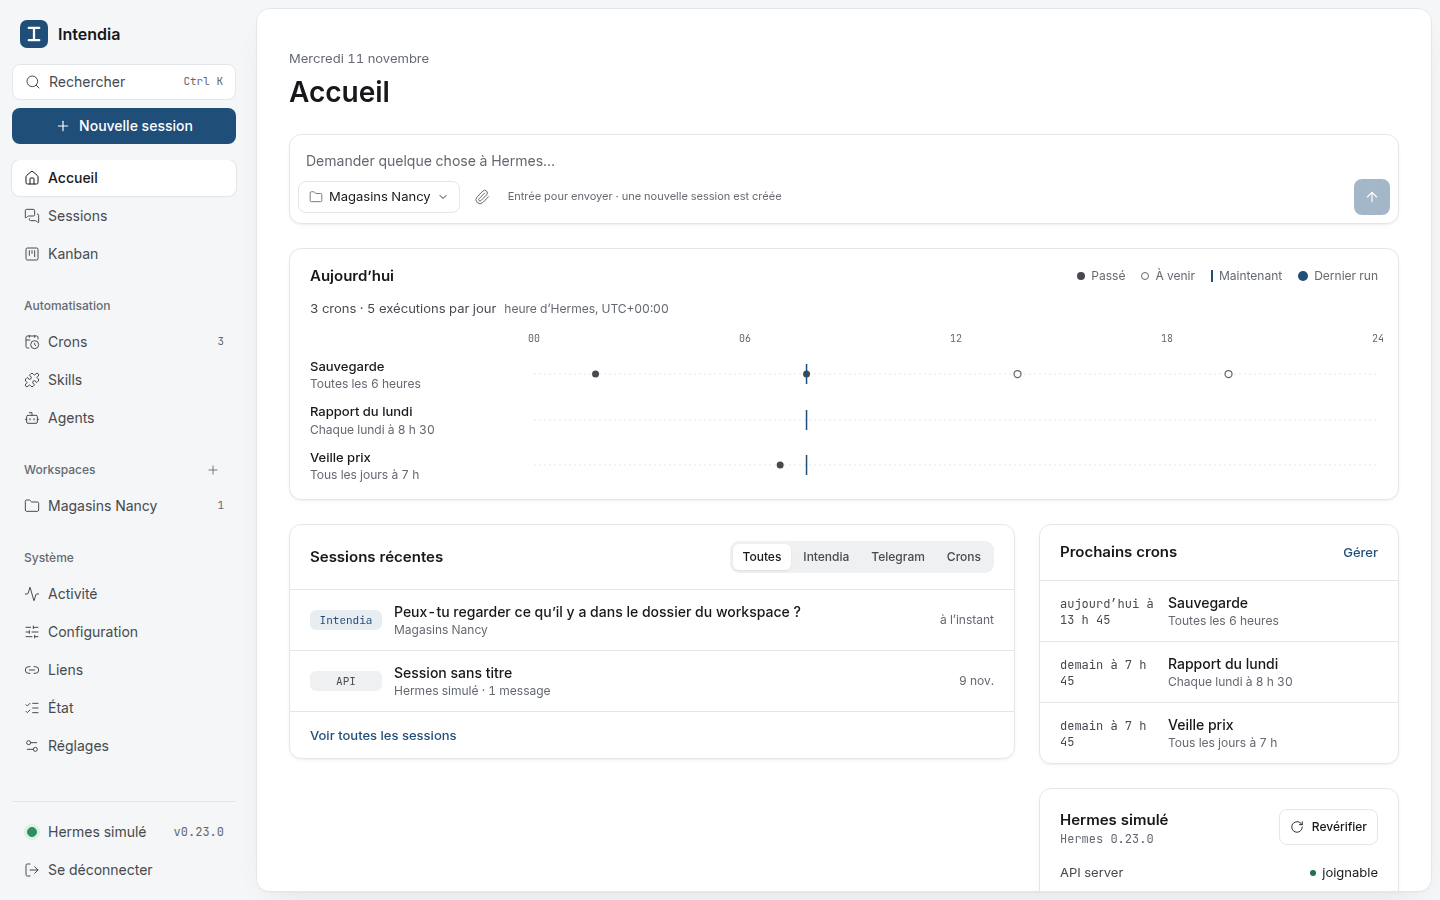
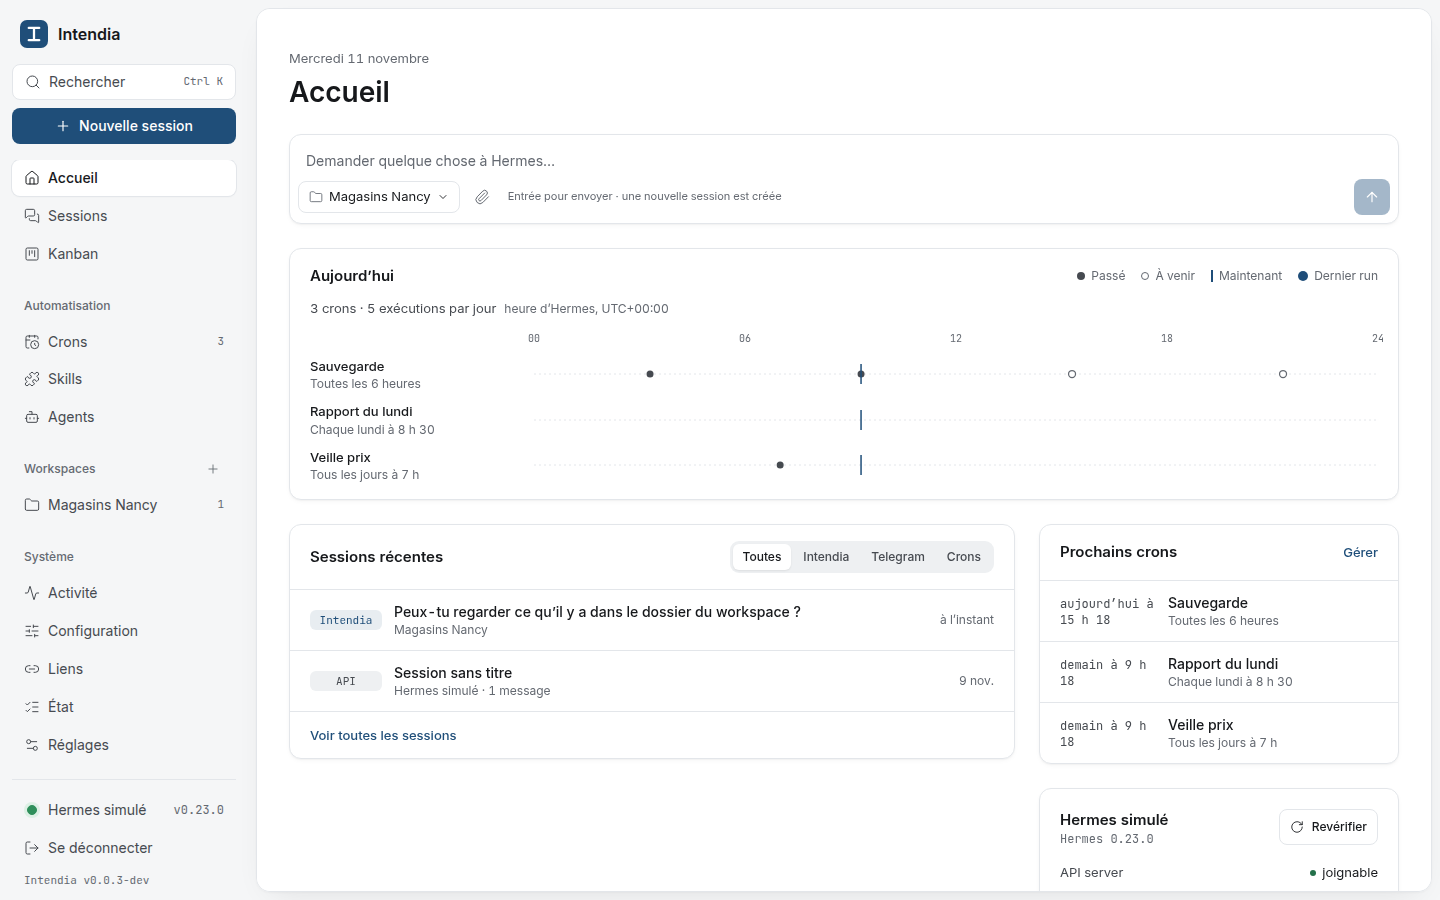
chore: v0.0.3

diff --git a/apps/server/src/index.ts b/apps/server/src/index.ts
@@ -10,7 +10,7 @@ import { InstanceStore } from './instances/store.js';
 import { createMcpApp } from './mcp/server.js';
 import { createServices } from './services.js';
 
-const VERSION = process.env.INTENDIA_VERSION ?? '0.0.2-dev';
+const VERSION = process.env.INTENDIA_VERSION ?? '0.0.3-dev';
 
 function checkWritable(dir: string, what: string): void {
   try {
